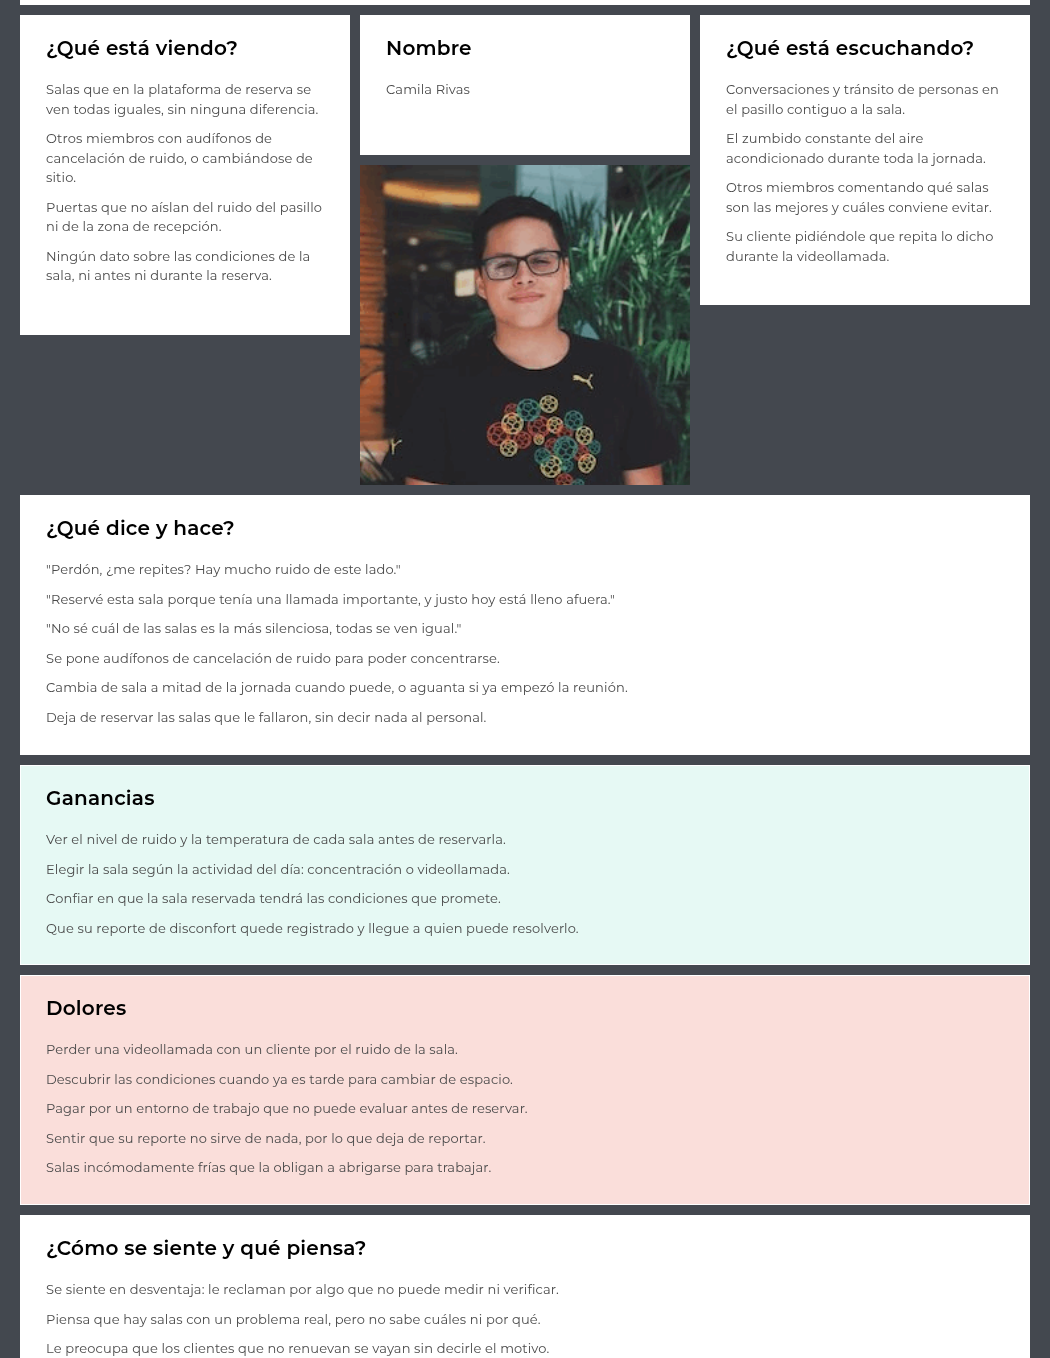
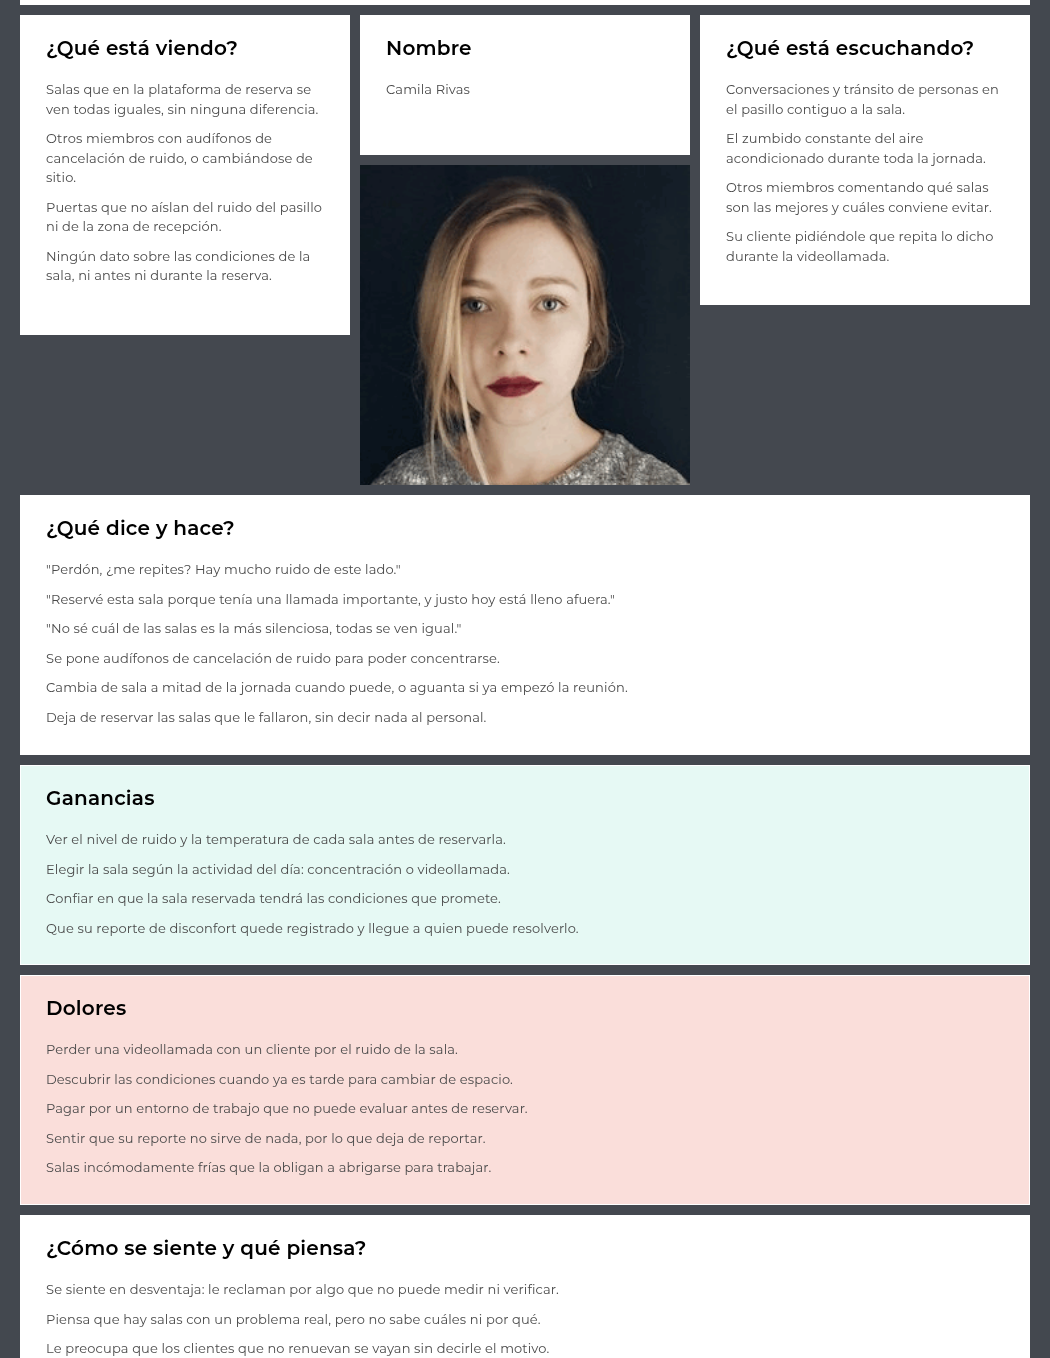
docs(chapter-2): add user personas and update empathy map figure
Incorpora las fichas de User Persona de ambos segmentos, elaboradas en
UXPressia y exportadas en PNG.

- Figura 1: Camila Rivas, miembro del coworking (Segmento 1)
- Figura 2: Martin Salazar, administrador de sede (Segmento 2)
- Actualiza el empathy map de Camila con su fotografia corregida
- Renumera las figuras del apartado 2.3 de forma consecutiva

Cada ficha queda marcada para contrastar sus campos con los hallazgos de
las entrevistas del apartado 2.2.

Changed region(s): [[0.3352, 0.1237, 0.6705, 0.3711]]

diff --git a/README.md b/README.md
@@ -571,7 +571,19 @@ En esta sección se explican y presentan los artefactos resultantes del proceso 
 
 Las fichas de User Persona sintetizan, en un arquetipo por cada segmento objetivo, las características recurrentes identificadas en el análisis de entrevistas y en el estudio de la competencia. Del análisis competitivo se recogen las expectativas que los productos existentes ya han instalado en el mercado; de las entrevistas, los comportamientos y frustraciones concretos que ninguna solución atiende hoy. Se elabora una ficha por segmento en **UXPressia**, conforme a la herramienta indicada en los lineamientos del curso, vinculando cada persona con su Journey Map y su Empathy Map dentro de la misma herramienta.
 
-> ‹TODO: elaborar en UXPressia a partir de los hallazgos de las entrevistas y exportar las imágenes a `assets/user-persona/`. Las personas deben construirse sobre evidencia recogida en campo y no sobre suposiciones del equipo.›
+<p align="center">
+  <img src="assets/user-persona/persona-camila-rivas.png" alt="User Persona: Camila Rivas — Miembro del coworking" width="720">
+</p>
+
+<p align="center"><em>Figura 1.</em> User Persona del Segmento 1 — Camila Rivas, miembro del coworking.</p>
+
+<p align="center">
+  <img src="assets/user-persona/persona-martin-salazar.png" alt="User Persona: Martín Salazar — Administrador de sede" width="720">
+</p>
+
+<p align="center"><em>Figura 2.</em> User Persona del Segmento 2 — Martín Salazar, administrador de sede de coworking.</p>
+
+> ‹TODO: contrastar cada campo con los hallazgos de las entrevistas del apartado 2.2 y reemplazar la cita representativa por una textual de un participante real.›
 
 **User Persona 1 — Miembro/Usuario del coworking**
 
@@ -666,13 +678,13 @@ Los empathy maps se elaboraron en **UXPressia**, conforme a la herramienta indic
   <img src="assets/empathy-maps/empathy-map-camila-rivas.png" alt="Empathy Map: Camila Rivas — Miembro del coworking" width="720">
 </p>
 
-<p align="center"><em>Figura 1.</em> Empathy Map del Segmento 1 — Camila Rivas, miembro del coworking.</p>
+<p align="center"><em>Figura 3.</em> Empathy Map del Segmento 1 — Camila Rivas, miembro del coworking.</p>
 
 <p align="center">
   <img src="assets/empathy-maps/empathy-map-martin-salazar.png" alt="Empathy Map: Martín Salazar — Administrador de sede" width="720">
 </p>
 
-<p align="center"><em>Figura 2.</em> Empathy Map del Segmento 2 — Martín Salazar, administrador de sede.</p>
+<p align="center"><em>Figura 4.</em> Empathy Map del Segmento 2 — Martín Salazar, administrador de sede.</p>
 
 > ‹TODO: reemplazar las fotografías de perfil por imágenes distintas para cada persona y sustituir el contenido por el resultado del análisis de las entrevistas reales.›
 
